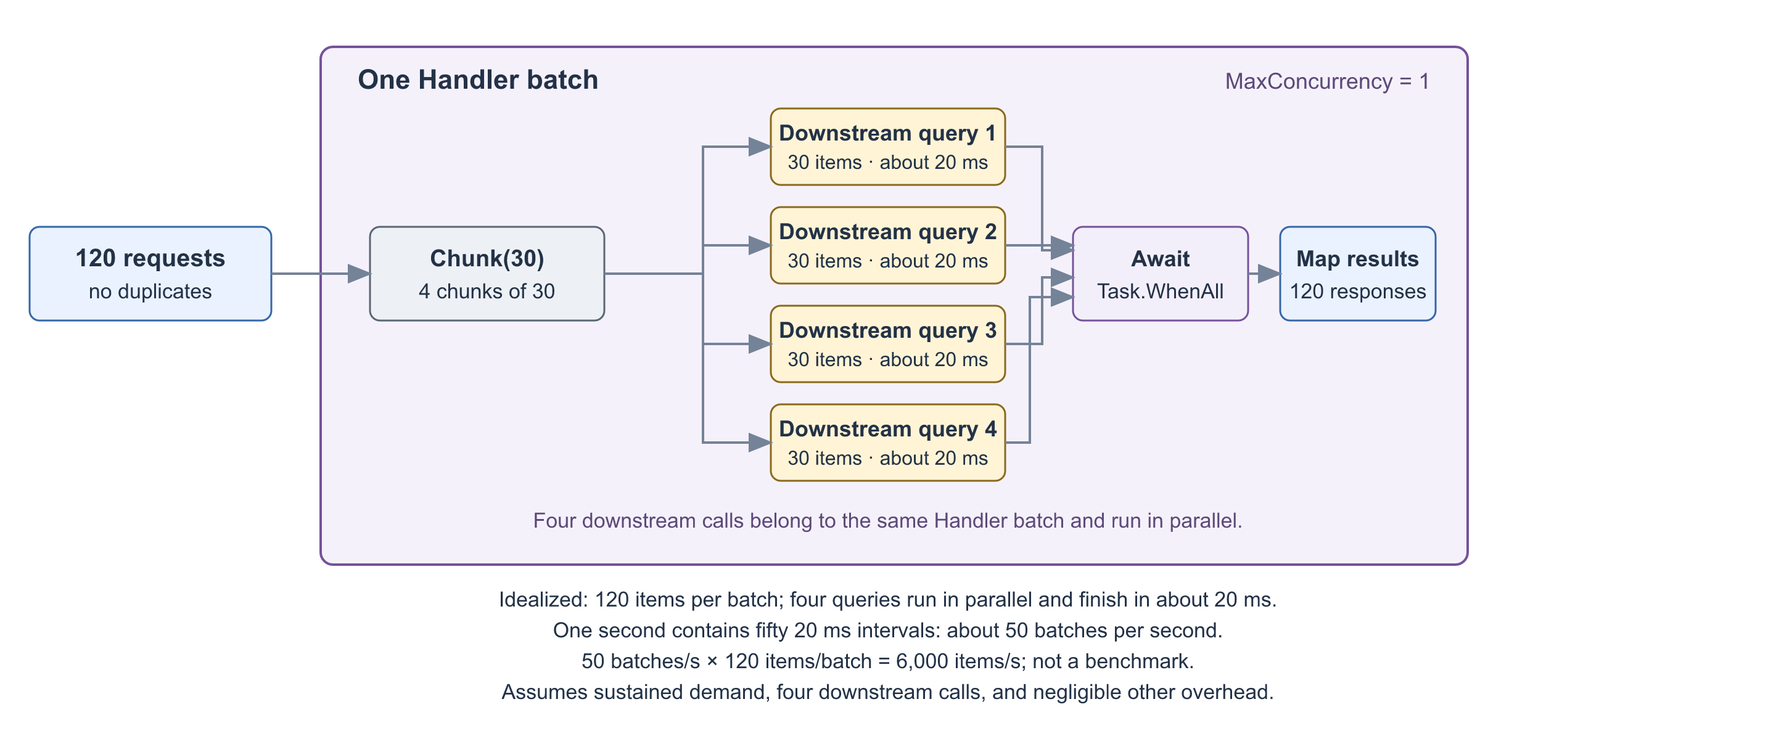
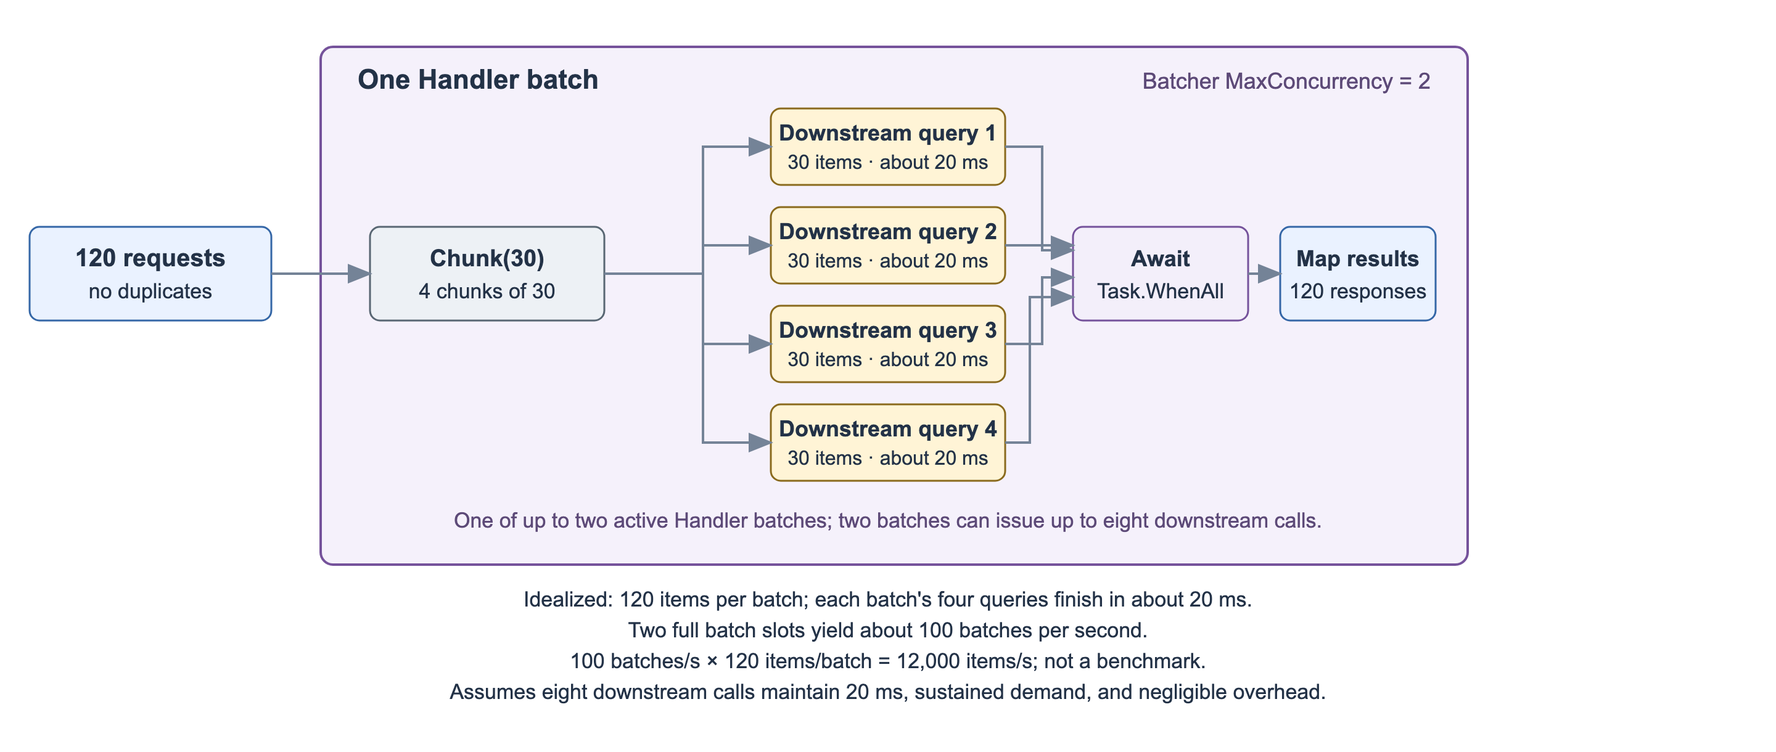
docs: clarify concurrency tuning and representative load testing (#77)

diff --git a/README.zh-CN.md b/README.zh-CN.md
@@ -40,9 +40,7 @@ RequestBatcher 基于 [BufferQueue](https://github.com/eventhorizon-cli/BufferQu
 合并为批次，交给应用的 Handler 处理。当前依赖 [BufferQueue 2.1.0](https://www.nuget.org/packages/BufferQueue/2.1.0)，
 应用无需单独注册或配置它。
 
-BufferQueue 在同一消费组内将每个 Partition 分配给一个 Consumer，由它负责拉取和推进消费进度。
-RequestBatcher 用单个拉取消费循环分发批次，再由 `MaxConcurrency` 控制 Handler 批次并发，使 Partition 数量与处理并发度解耦。
-**这不是 BufferQueue 的设计缺陷，而是 RequestBatcher 针对进程内请求合批场景采用的调度方式。** 详见[内部调度设计](docs/batch-dispatch-redesign.zh-CN.md#队列拓扑)。
+RequestBatcher 通过 `MaxConcurrency` 限制 Handler 批次并发，消费循环负责拉取和分发。详见[内部调度设计](docs/batch-dispatch-redesign.zh-CN.md#队列拓扑)。
 
 这种批次处理可以理解为**机会式攒批（Opportunistic Batching）**：请求写入 BufferQueue 后会发出通知，唤醒空闲的消费流程。
 消费流程先占用一个执行名额，再通过拉取 API 从一个 Partition 拉取最多 `BatchSize` 条请求（默认 128 条），随后分发这一批。
@@ -220,13 +218,14 @@ RequestBatcher 不提供全局、Partition 内或 Partition Key 级别的 Handle
 每次拉取只读取一个 Partition。**流量不足时，多 Partition 可能把原本可合并的请求拆散；即使调用方已经批量提交，也可能形成更多小批次，增加 Handler 和下游调用次数。**
 [性能调优与压测](#性能调优与压测)中的两个独立实验测量了这种取舍。
 
-**`MaxConcurrency` 从 `1` 开始压测，吞吐或排队延迟不满足目标时再逐步提高。** 执行名额过多时，已到达的请求可能更早被
+**除非已慎重评估排队延迟和下游限制，否则不建议将 `MaxConcurrency` 设为 `1`；通常可以从 `2` 开始。** 执行名额过多时，已到达的请求可能更早被
 取走，形成更多小批次，减少合并和去重的机会；过低则可能增加排队。应选择能满足吞吐和延迟目标的较小值。
 
 **较低并发有利于合并，但也可能增加尾延迟。** 尤其在 `MaxConcurrency = 1` 时，一个慢批次会占住唯一的执行名额，
-后续请求只能排队；Handler 内使用 `Task.WhenAll` 时，还要等最慢的子查询完成才能释放名额。
+后续请求只能排队，即使流量很低也一样。设置为 `2` 后，一个批次等待 I/O 时，后续批次仍有机会执行。
+Handler 内使用 `Task.WhenAll` 时，还要等最慢的子查询完成才能释放名额。
 压测时应同时比较实际批大小、去重后的查询量、下游调用次数和端到端 P95/P99，判断减少的下游工作量是否值得付出额外等待。
-如果合并效果不错但尾延迟不达标，可以逐步尝试 `2`、`4`，同时确认下游能承受增加的并发调用。
+如果实测吞吐或延迟仍不达标，再逐步提高，同时确认下游能承受增加的并发调用。
 
 **Handler 并发低，不等于能处理的请求量少。** 一个 Handler 批次可以处理多个请求，内部也可以拆成小批并行调用下游，
 因此较低的 `MaxConcurrency` 仍可能支撑较高流量。实际能力取决于批大小、Handler 耗时，以及下游能承受的调用量和并发度，
@@ -258,7 +257,7 @@ builder.Services.AddRequestBatcher<ProductQueryItem, ProductBatchHandler>(
 | 选项 | 默认值 | 行为 |
 | --- | ---: | --- |
 | `BatchSize` | `128` | 单次 Handler 调用包含的请求数量上限。 |
-| `MaxConcurrency` | `1` | Handler 批次最大并发数；它始终是 Handler 并发上限，与按键路由的 Partition 数量相互独立。 |
+| `MaxConcurrency` | `1` | Handler 批次最大并发数，与按键路由的 Partition 数量相互独立。通常建议显式设置为 `2` 作为起点，保留 `1` 前应慎重评估。 |
 | `MaxPendingRequests` | `8192` | 内部 BufferQueue 中尚未被拉取执行的请求容量上限。 |
 | `FullMode` | `Wait` | `Wait` 在容量不足时等待；超过容量的显式提交按输入顺序分段。`Fail` 要求整组立即容纳，否则整组失败且一个请求也不会入队。 |
 | `UsePartitionKey(selector, partitionCount)` | 未配置（单 Partition） | `partitionCount` 至少为 1；设为 1 时关闭按 Key 路由且不调用选择器，大于 1 时将相同键值的请求路由到同一 Partition。 |
@@ -929,6 +928,12 @@ var prices = await store.FindAsync(keys, batchTimeout.Token).ConfigureAwait(fals
 
 ## 性能调优与压测
 
+**不要只看高流量压测结果；日常流量下也应对比接入 RequestBatcher 前后的性能。** 在相同资源和下游配置下，
+分别模拟日常、高峰及短时突发流量，保持接入前后的请求到达节奏、项数和数据分布一致，对比吞吐、端到端平均延迟及 P95/P99、
+实际批大小、下游调用次数和资源开销。日常流量下合批机会可能较少，合批收益未必能抵消入队和调度的额外开销；
+如果执行名额已被占满，还会产生排队等待。
+高负载下的吞吐收益不能替代日常流量下的延迟验证。
+
 ### 让 Agent 协助制定初步配置
 
 如果希望 AI Agent 帮你分析如何设置参数，可以先告诉它**你当前的流量、下游耗时和业务要求**。
@@ -950,7 +955,7 @@ var prices = await store.FindAsync(keys, batchTimeout.Token).ConfigureAwait(fals
 还需说明业务是只读还是写入，是否要求顺序、是否允许去重，以及取消和失败如何处理；同时提供下游的 QPS 配额、
 最大并发和连接池限制。
 
-**最小输入：单实例高峰 QPS、每次请求项数、当前下游调用方式、下游平均/P99 RT、批量接口限制、端到端延迟目标。**
+**最小输入：单实例日常及高峰 QPS、每次请求项数、当前下游调用方式、下游平均/P99 RT、批量接口限制、端到端延迟目标。**
 缺失的数据直接标为未知，不要让 Agent 用猜测补齐。只有单项查询 RT 时，不能直接推断批量查询的 RT；
 可以先补测几组批大小，再估算合并是否划算。
 
@@ -1062,24 +1067,22 @@ Partition 数量和消费速度都会影响合并效果，应从较少的 Partit
 ### 拆分调用时，分别估算两层并发
 
 **`MaxConcurrency` 只限制 Batcher 同时执行的 Handler 批次数，不直接限制 Handler 内部的下游调用并发。**
-可以从 `MaxConcurrency = 1` 开始压测，按需逐步提高，例如测试 `2–4`；将 `BatchSize` 设为期望每次下游批量调用项数
+通常可以从 `MaxConcurrency = 2` 开始，根据实测吞吐和延迟调整；将 `BatchSize` 设为期望每次下游批量调用项数
 `S` 的 `3–10` 倍，作为另一组调优起点。这些范围是待验证的配置思路，不是实测最优值。
 
 Handler 内先按业务需要去重，再按每组最多 `S` 项拆分并行查询，等待全部查询完成后，为每个原始请求回填结果。
 若去重后有 `U` 项，就产生 `ceil(U / S)` 个子调用：请求少时调用少，不等待凑满；积压较多时，一个 Handler 可以并行处理
 更多小批次。**这样即使 Handler 并发保持较低，下游调用数也能随实际批大小变化，为不同流量提供弹性。**
 
-**`MaxConcurrency = 1` 表示同时执行一个 Handler 批次，不是一次只能处理一个请求或发起一个下游调用。**
-假设持续有请求可合批，每个 Handler 实际收到 120 个请求且没有重复商品；下游支持 4 次并行查询，每次约 20 ms。
-把 120 个请求按 `Chunk(30)` 拆成 4 次查询并行执行，`Task.WhenAll` 等待最慢的一次完成。
-暂时忽略调度、去重和回填等其他开销，就相当于**每 20 ms（0.02 秒）完成一批 120 个请求**。
+**以 `MaxConcurrency = 2` 为例：最多同时执行 2 个 Handler 批次，每批内部还可以并行调用下游。**
+假设持续有请求可合批，每个 Handler 实际收到 120 个请求且没有重复商品。
+每批按 `Chunk(30)` 拆成 4 次查询并行执行，`Task.WhenAll` 等待最慢的一次完成；两个批次合计最多有 **8 次下游调用并发执行**。
+假设下游能承受这 8 次并发查询，且每次仍约 20 ms，忽略调度、去重和回填等其他开销，两个执行名额持续满载时，
+理想吞吐约为 **`2 ÷ 0.02 秒 × 120 项/批 = 12,000 项/秒`**。
 
-**1 秒包含 50 个 20 ms**。每 20 ms 完成一批 120 个请求，所以每秒约能完成 50 批，
-即 **`50 批/秒 × 120 项/批 = 6,000 项/秒`**。
+下图展示其中一个 Handler 批次的内部流程。任意批次完成就释放自己的名额，后续批次不必等两个批次都结束。
 
-这说明较低的 Handler 并发也可能支撑较高请求量，**并不保证 `1` 对所有业务都足够**。
-
-![一个 Handler 批次拆成四次并行下游查询](docs/assets/request-batcher-single-slot-fanout.zh-CN.svg)
+![MaxConcurrency 为 2，每个 Handler 批次拆成四次并行下游查询](docs/assets/request-batcher-single-slot-fanout.zh-CN.svg)
 
 这是持续有请求可合批时的理想估算，不是实测结果。一般可用
 `请求项吞吐 ≈ MaxConcurrency × 实际平均批大小 ÷ Handler 平均耗时（秒）` 估算；

diff --git a/README.md b/README.md
@@ -45,10 +45,8 @@ RequestBatcher uses [BufferQueue](https://github.com/eventhorizon-cli/BufferQueu
 [BufferQueue 2.1.0](https://www.nuget.org/packages/BufferQueue/2.1.0); applications do not register or configure it
 separately.
 
-Within a consumer group, BufferQueue assigns each partition to one consumer, which owns pulling and consumption
-progress. RequestBatcher uses one pull loop to dispatch batches and `MaxConcurrency` to bound concurrent handler
-batches, decoupling partition count from processing concurrency. **This is a scheduling choice for in-process request
-batching, not a BufferQueue design defect.** See the [internal dispatch design](docs/batch-dispatch-redesign.md#topology).
+RequestBatcher uses `MaxConcurrency` to limit concurrent Handler batches; its consumption loop pulls and dispatches
+batches. See the [internal dispatch design](docs/batch-dispatch-redesign.md#topology).
 
 This is **opportunistic batching**: writing a request to BufferQueue sends a push notification that wakes an idle
 consumer. It first acquires one execution slot, then pulls up to `BatchSize` requests (default: 128) from one partition
@@ -250,15 +248,16 @@ execution slots. Each pull reads only one partition. **At low traffic, multiple 
 otherwise be combined, producing more small batches and increasing Handler and downstream calls even with explicit batch submission.** The independent experiments in
 [Performance Tuning and Benchmarks](#performance-tuning-and-benchmarks) measure this tradeoff.
 
-**Start load testing with `MaxConcurrency = 1`, then increase it gradually if throughput or queueing latency misses your target.**
+**Avoid `MaxConcurrency = 1` unless you have carefully evaluated its queueing cost and downstream constraints. Start with `2` for typical workloads.**
 Too many execution slots can pull requests earlier into smaller batches, reducing merging and deduplication opportunities;
 too few can increase queueing. Prefer the smallest value that meets your throughput and latency requirements.
 
 **Lower concurrency can improve merging but also increase tail latency.** With `MaxConcurrency = 1`, a slow batch
-occupies the only execution slot while later requests queue. A Handler using `Task.WhenAll` must wait for its slowest
+occupies the only execution slot while later requests queue, even at low traffic. Two slots let a later batch run while
+one batch is still awaiting I/O. A Handler using `Task.WhenAll` must wait for its slowest
 child query before releasing that slot. Compare actual batch sizes, distinct items queried, downstream call counts,
 and end-to-end P95/P99 to decide whether reduced downstream work justifies the extra waiting.
-If merging is effective but tail latency misses the target, try `2`, then `4`, while checking downstream capacity.
+Increase the limit if measured throughput or latency requires it, while checking downstream capacity.
 
 **Low Handler concurrency does not necessarily mean low request throughput.** Each Handler batch processes multiple requests
 and may split them into parallel downstream calls, so a low `MaxConcurrency` can still sustain substantial traffic.
@@ -292,7 +291,7 @@ A single partition can also supply several concurrent batches.
 | Option | Default | Behavior |
 | --- | ---: | --- |
 | `BatchSize` | `128` | Maximum requests passed to one handler call. |
-| `MaxConcurrency` | `1` | Maximum concurrent handler batches. It is independent of the keyed partition count. |
+| `MaxConcurrency` | `1` | Maximum concurrent handler batches, independent of the keyed partition count. Explicitly configure `2` as a typical starting point; retain `1` only after careful evaluation. |
 | `MaxPendingRequests` | `8192` | Internal BufferQueue capacity for requests that have not yet been pulled for execution. |
 | `FullMode` | `Wait` | `Wait` waits for capacity and splits explicit groups larger than capacity into slices. `Fail` rejects the whole submission without admitting any item unless it fits immediately. |
 | `UsePartitionKey(selector, partitionCount)` | Not set (one partition) | Requires `partitionCount >= 1`; `1` disables keyed routing without invoking the selector, and larger counts route equal keys to one partition. |
@@ -1008,6 +1007,14 @@ When registered through `AddRequestBatcher`, the application container owns asyn
 
 ## Performance Tuning and Benchmarks
 
+**Do not evaluate only high-load results; compare performance before and after adopting RequestBatcher under typical traffic too.**
+Test typical, peak, and short-burst traffic with the same resources and downstream configuration, matching request arrival
+patterns, item counts, and data distributions between the baseline and RequestBatcher. Compare throughput, mean and P95/P99
+end-to-end latency, actual batch sizes, downstream call counts, and resource costs. Typical traffic may offer fewer batching
+opportunities, so batching savings may not offset admission and scheduling overhead; occupied execution slots also cause
+queueing when no slot is available. Throughput gains at high load
+do not replace latency validation under typical traffic.
+
 ### Preparing Inputs for an Agent
 
 If you want an AI Agent to help choose an initial configuration before adopting RequestBatcher, share the following
@@ -1030,7 +1037,7 @@ Also state the business semantics: read versus write behavior, ordering requirem
 and failure handling, and downstream QPS, concurrency, or connection-pool limits. Mark missing values as `unknown`; a single-item RT
 does not establish a batch RT, so use a small targeted test when batch behavior is unknown.
 
-**Minimum useful input:** per-instance peak QPS, items per entry, downstream call pattern, downstream mean/P99 RT,
+**Minimum useful input:** per-instance typical and peak QPS, items per entry, downstream call pattern, downstream mean/P99 RT,
 batch limits, and the end-to-end latency target.
 
 An Agent can use these inputs to propose initial `MaxConcurrency`, `BatchSize`, `MaxPendingRequests`, and partition
@@ -1152,7 +1159,7 @@ affect merging, so start load testing with fewer partitions.
 ### Estimating Handler and Downstream Concurrency Separately
 
 **`MaxConcurrency` limits concurrent Handler batches for one registered batcher, not the downstream calls within each batch.**
-Start load testing at `MaxConcurrency = 1` and increase it as needed, for example by testing `2–4`. A `BatchSize`
+Start with `MaxConcurrency = 2` for typical workloads and tune against measured throughput and latency. A `BatchSize`
 of roughly `3–10` times the desired downstream sub-batch size `S` is another tuning starting point.
 
 Inside the Handler, deduplicate when appropriate, split the resulting items into sub-batches of at most `S`,
@@ -1161,19 +1168,18 @@ number of child calls is `ceil(U / S)`, where `U` is the post-deduplication item
 without waiting to fill a full batch, while backlog allows more small sub-batches to run concurrently.
 **Downstream call counts can therefore adapt to actual batch size while Handler concurrency stays low.**
 
-**`MaxConcurrency = 1` means one Handler batch at a time, not one request or one downstream call at a time.**
-Assume sustained load, 120 actual requests for distinct products in each Handler batch, and a downstream that supports
-four concurrent queries taking about 20 ms each. `Chunk(30)` splits the 120 requests into four parallel queries,
-and `Task.WhenAll` waits for the slowest. Temporarily ignoring scheduling, deduplication, and response-mapping overhead,
-this means **one batch of 120 requests completes every 20 ms (0.02 seconds)**.
+**With `MaxConcurrency = 2`, up to two Handler batches can execute at once, each issuing parallel downstream calls.**
+Assume sustained load and 120 actual requests for distinct products in each Handler batch.
+Each batch uses `Chunk(30)` to start four parallel queries and awaits the slowest through `Task.WhenAll`;
+the two batches can therefore issue **up to eight concurrent downstream calls**.
+Assuming the downstream supports all eight concurrent queries while each still takes about 20 ms, ignoring scheduling,
+deduplication, and response-mapping overhead, two continuously occupied slots yield an idealized throughput of
+**`2 / 0.02 seconds × 120 items/batch = 12,000 items/s`**.
 
-**One second contains fifty 20 ms intervals.** Each interval completes one batch of 120 requests,
-so about 50 batches finish each second, with 120 items per batch:
-**`50 batches/s × 120 items/batch = 6,000 items/s`**.
+The diagram shows the internal flow of one of these Handler batches. Each batch releases its own slot on completion;
+the next batch does not wait for both batches to finish.
 
-This explains why low Handler concurrency can support high throughput; **it does not mean one slot is sufficient for every workload**.
-
-![One Handler batch fans out into four concurrent downstream queries](docs/assets/request-batcher-single-slot-fanout.svg)
+![MaxConcurrency is two; each Handler batch fans out into four concurrent downstream queries](docs/assets/request-batcher-single-slot-fanout.svg)
 
 This is an idealized estimate under sustained load, not a measured result. More generally,
 `item throughput ≈ MaxConcurrency × actual mean batch size / mean Handler seconds`.

diff --git a/src/RequestBatcher/README.md b/src/RequestBatcher/README.md
@@ -11,10 +11,8 @@ and bounds queued capacity. It is useful when a database, cache, or downstream A
 
 ## How Requests Are Batched: Opportunistic Merging
 
-Within a consumer group, BufferQueue assigns each partition to one consumer, which owns pulling and consumption
-progress. RequestBatcher uses one pull loop to dispatch batches and `MaxConcurrency` to bound concurrent handler
-batches, decoupling partition count from processing concurrency. **This is a scheduling choice for in-process request
-batching, not a BufferQueue design defect.** See the
+RequestBatcher uses `MaxConcurrency` to limit concurrent Handler batches; its consumption loop pulls and dispatches
+batches. See the
 [internal dispatch design](https://github.com/eventhorizon-cli/RequestBatcher/blob/main/docs/batch-dispatch-redesign.md#topology).
 
 **RequestBatcher does not wait to fill a batch or add a fixed collection window.** When an execution slot is available,
@@ -207,21 +205,29 @@ Partition count and handler concurrency are independent:
 **At low traffic, multiple partitions can split requests that could otherwise be combined, producing more small batches
 and increasing handler and downstream calls even with explicit batch submission.**
 
-**Start load testing with `MaxConcurrency = 1` and increase it gradually only as needed to meet throughput and latency targets.**
+**Avoid `MaxConcurrency = 1` unless you have carefully evaluated its queueing cost and downstream constraints. Start with `2` for typical workloads.**
 Too many slots can produce smaller batches and reduce merging; too few can increase queueing.
 **Lower concurrency can improve merging but increase tail latency:** with one slot, a slow Handler batch delays queued
-requests, and `Task.WhenAll` holds the slot until the slowest child query completes. Compare downstream work saved with
-end-to-end P95/P99; try `2`, then `4` if latency misses the target and downstream capacity permits.
+requests even at low traffic, and `Task.WhenAll` holds the slot until the slowest child query completes. Two slots let
+a later batch run while one batch is still awaiting I/O. Compare downstream work saved with end-to-end P95/P99;
+increase the limit if measured throughput or latency requires it and downstream capacity permits.
 
 Low Handler concurrency can still support substantial traffic: each batch processes multiple requests and can run
-multiple downstream calls even with `MaxConcurrency = 1`. Under sustained load, item throughput is roughly
+multiple downstream calls within a single Handler batch. Under sustained load, item throughput is roughly
 `MaxConcurrency × actual mean batch size / mean Handler seconds`; use measured batch sizes and durations.
 After deduplication, query directly if the items fit in one downstream call. Otherwise, split with `Chunk`, start each async query, and await
 `Task.WhenAll` before assigning responses. Neither `MaxConcurrency` nor `Task.WhenAll` caps those child calls. For this approach, a `BatchSize` of
 `3–10` times the desired downstream batch size is a tuning starting point; validate it against downstream capacity.
 See [Estimating Handler and Downstream Concurrency Separately](https://github.com/eventhorizon-cli/RequestBatcher#estimating-handler-and-downstream-concurrency-separately).
 
-Before tuning, collect the existing system's per-instance peak QPS, request-item counts, downstream RT and batch limits,
+**Do not evaluate only high-load results; compare performance before and after adopting RequestBatcher under typical traffic too.**
+Test typical, peak, and short-burst traffic with matched resources, downstream configuration, request arrival patterns,
+item counts, and data distributions. Compare throughput, mean and P95/P99 end-to-end latency, actual batch sizes,
+downstream call counts, and resource costs. Typical traffic may offer fewer batching opportunities, so batching savings
+may not offset admission and scheduling overhead; requests also queue when no execution slot is available.
+High-load throughput gains do not replace this comparison.
+
+Before tuning, collect the existing system's per-instance typical and peak QPS, request-item counts, downstream RT and batch limits,
 and latency target; see [Preparing Inputs for an Agent](https://github.com/eventhorizon-cli/RequestBatcher#preparing-inputs-for-an-agent).
 These inputs support an initial configuration proposal, not a performance guarantee.
 
@@ -230,7 +236,7 @@ These inputs support an initial configuration proposal, not a performance guaran
 | Option | Default | Behavior |
 | --- | ---: | --- |
 | `BatchSize` | `128` | Maximum requests passed to one handler invocation; it is not a minimum. |
-| `MaxConcurrency` | `1` | Maximum concurrent handler batches across all partitions. |
+| `MaxConcurrency` | `1` | Maximum concurrent handler batches across all partitions. Explicitly configure `2` as a typical starting point; retain `1` only after careful evaluation. |
 | `MaxPendingRequests` | `8192` | Capacity for requests still queued in memory; pulled requests can already be executing. |
 | `FullMode` | `Wait` | `Wait` waits for capacity; an oversized explicit group is admitted in capacity-sized slices. `Fail` rejects the whole group immediately when it cannot fit. |
 | `UsePartitionKey(selector, partitionCount)` | Not set (one partition) | Routes equal supported keys together when the count is greater than one; it does not serialize execution. |

diff --git a/docs/batch-dispatch-redesign.md b/docs/batch-dispatch-redesign.md
@@ -39,7 +39,8 @@ cancellation before dispatch, or an infrastructure failure.
 Within a BufferQueue consumer group, each partition belongs to one consumer, which owns pulling and consumption
 progress. RequestBatcher keeps that ownership model and uses one pull consumer for all its partitions. A separate
 execution window limits concurrent Handler batches through `MaxConcurrency`, so one partition can supply several
-concurrent batches. This is a scheduling choice for in-process request batching, not a BufferQueue design defect.
+concurrent batches. This builds in-process request batching on BufferQueue's partition ownership model while managing
+Handler execution independently.
 
 ![Partition ownership and Handler concurrency](diagrams/partition-handler-decoupling.svg)
 
